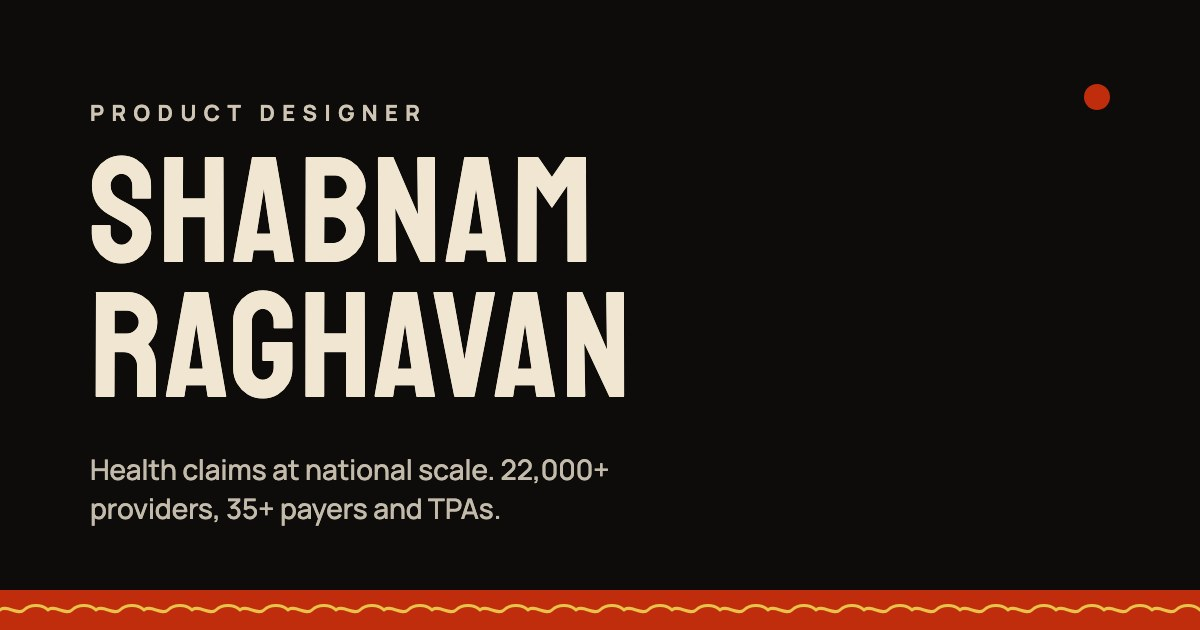
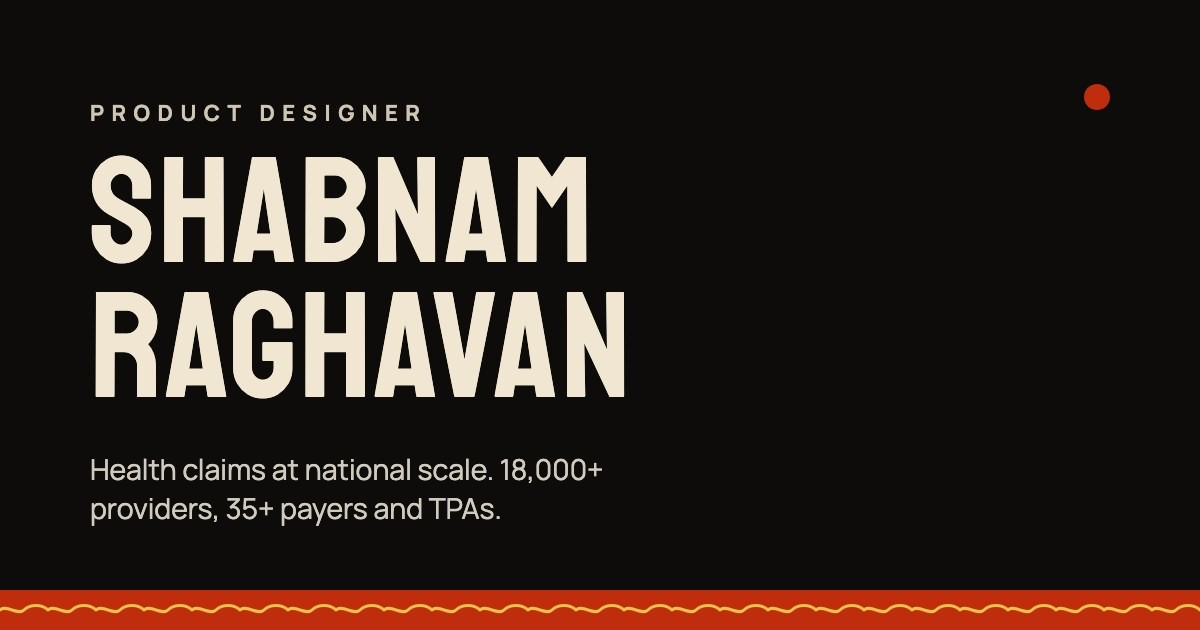
18,000+ providers everywhere: home, resume, case study cards, search and share descriptions, share image

Changed region(s): [[0.0925, 0.7238, 0.5242, 0.8444]]

diff --git a/index.html b/index.html
@@ -12,7 +12,7 @@
 <meta property="og:type" content="website" />
 <meta property="og:site_name" content="Shabnam Raghavan" />
 <meta property="og:title" content="Shabnam Raghavan · Product Designer" />
-<meta property="og:description" content="Product designer working on health insurance claims at national scale. Sole designer for IHX Nucleus, serving 22,000+ providers and 35+ payers and TPAs." />
+<meta property="og:description" content="Product designer working on health insurance claims at national scale. Sole designer for IHX Nucleus, serving 18,000+ providers and 35+ payers and TPAs." />
 <meta property="og:url" content="https://www.shabnamraghavan.com/" />
 <meta property="og:image" content="https://www.shabnamraghavan.com/images/og-share.jpg" />
 <meta property="og:image:width" content="1200" />
@@ -20,9 +20,9 @@
 <meta property="og:image:alt" content="Shabnam Raghavan, Product Designer" />
 <meta name="twitter:card" content="summary_large_image" />
 <meta name="twitter:title" content="Shabnam Raghavan · Product Designer" />
-<meta name="twitter:description" content="Product designer working on health insurance claims at national scale. Sole designer for IHX Nucleus, serving 22,000+ providers and 35+ payers and TPAs." />
+<meta name="twitter:description" content="Product designer working on health insurance claims at national scale. Sole designer for IHX Nucleus, serving 18,000+ providers and 35+ payers and TPAs." />
 <meta name="twitter:image" content="https://www.shabnamraghavan.com/images/og-share.jpg" />
-<meta name="description" content="Product designer working on health insurance claims at national scale. Sole designer for IHX Nucleus, serving 22,000+ providers and 35+ payers and TPAs." />
+<meta name="description" content="Product designer working on health insurance claims at national scale. Sole designer for IHX Nucleus, serving 18,000+ providers and 35+ payers and TPAs." />
 <link rel="icon" type="image/png" sizes="32x32" href="favicon-32.png" />
 <link rel="icon" type="image/svg+xml" href="favicon.svg" />
 <link rel="apple-touch-icon" sizes="180x180" href="favicon-180.png" />
@@ -2394,7 +2394,7 @@
             <span class="file-no">03</span>
             <h3><span class="sel">A Four-Bucket Layout Was Hiding a Two-Team Operation</span></h3>
             <p class="file-org">IHX · Nucleus Ops dashboard</p>
-            <p class="file-metrics">22,000+ providers · 33% increase in revenue per claim · 51% reduction in task time</p>
+            <p class="file-metrics">18,000+ providers · 33% increase in revenue per claim · 51% reduction in task time</p>
             <span class="file-go">Read case study</span>
           </div>
         </div>
@@ -2947,7 +2947,7 @@
           <span class="hist-plus" aria-hidden="true"></span>
         </button>
         <div class="hist-body"><div class="hist-inner">
-          <p class="hist-lede">Sole product designer for IHX Nucleus, serving 22,000+ healthcare providers and 35+ payers and TPAs.</p>
+          <p class="hist-lede">Sole product designer for IHX Nucleus, serving 18,000+ healthcare providers and 35+ payers and TPAs.</p>
           <ul class="hist-list">
             <li>Led the UX for <mark>7 AI agentic product lines</mark> across the claims journey, from submission through to settlement.</li>
             <li>Designed premium operations features on a per-claim subscription. Average time to initiate settlement fell from <mark>3.23 to 1.56 minutes</mark>, and per-claim monetization rose <mark>33%</mark> on one enterprise hospital contract.</li>

diff --git a/resume.html b/resume.html
@@ -8,12 +8,12 @@
 <script>(function(){if(!/(^|\.)shabnamraghavan\.com$/.test(location.hostname))return;if(navigator.doNotTrack==="1"||window.doNotTrack==="1")return;try{if(localStorage.getItem("shab-ignore")==="1")return;}catch(e){}
 (function(c,l,a,r,i,t,y){c[a]=c[a]||function(){(c[a].q=c[a].q||[]).push(arguments)};t=l.createElement(r);t.async=1;t.src="https://www.clarity.ms/tag/"+i;y=l.getElementsByTagName(r)[0];y.parentNode.insertBefore(t,y);})(window,document,"clarity","script","yt9i1njbpi");})();</script>
 <!-- link previews (LinkedIn, WhatsApp, X) -->
-<meta name="description" content="Resume of Shabnam Raghavan, product designer in health insurtech. 3+ years, sole designer for IHX Nucleus, 22,000+ providers and 35+ payers and TPAs." />
+<meta name="description" content="Resume of Shabnam Raghavan, product designer in health insurtech. 3+ years, sole designer for IHX Nucleus, 18,000+ providers and 35+ payers and TPAs." />
 <link rel="canonical" href="https://www.shabnamraghavan.com/resume.html" />
 <meta property="og:type" content="article" />
 <meta property="og:site_name" content="Shabnam Raghavan" />
 <meta property="og:title" content="Resume · Shabnam Raghavan" />
-<meta property="og:description" content="Resume of Shabnam Raghavan, product designer in health insurtech. 3+ years, sole designer for IHX Nucleus, 22,000+ providers and 35+ payers and TPAs." />
+<meta property="og:description" content="Resume of Shabnam Raghavan, product designer in health insurtech. 3+ years, sole designer for IHX Nucleus, 18,000+ providers and 35+ payers and TPAs." />
 <meta property="og:url" content="https://www.shabnamraghavan.com/resume.html" />
 <meta property="og:image" content="https://www.shabnamraghavan.com/images/og-share.jpg" />
 <meta property="og:image:width" content="1200" />
@@ -21,7 +21,7 @@
 <meta property="og:image:alt" content="Shabnam Raghavan, Product Designer" />
 <meta name="twitter:card" content="summary_large_image" />
 <meta name="twitter:title" content="Resume · Shabnam Raghavan" />
-<meta name="twitter:description" content="Resume of Shabnam Raghavan, product designer in health insurtech. 3+ years, sole designer for IHX Nucleus, 22,000+ providers and 35+ payers and TPAs." />
+<meta name="twitter:description" content="Resume of Shabnam Raghavan, product designer in health insurtech. 3+ years, sole designer for IHX Nucleus, 18,000+ providers and 35+ payers and TPAs." />
 <meta name="twitter:image" content="https://www.shabnamraghavan.com/images/og-share.jpg" />
 <link rel="icon" type="image/png" sizes="32x32" href="favicon-32.png" />
 <link rel="icon" type="image/svg+xml" href="favicon.svg" />

diff --git a/ihx-ai-features-case-study.html b/ihx-ai-features-case-study.html
@@ -1646,7 +1646,7 @@ footer.sc-foot{background:transparent;color:#F0E6D2;padding:52px 0 34px;}
         <div class="cs-thumb"><video src="ihx-tpa-ops-cover.mp4" poster="images/ihx-tpa-ops-cover-poster.webp" muted loop playsinline preload="none" aria-label="IHX Ops Dashboard claims listing screen"></video></div>
         <div class="cs-card-body">
           <div class="cs-card-title">A Four-Bucket Layout Was Hiding a Two-Team Operation</div>
-          <span class="cs-metrics">22K+ providers &middot; 33% increase in revenue/claim &middot; 51% reduction in task time</span>
+          <span class="cs-metrics">18K+ providers &middot; 33% increase in revenue/claim &middot; 51% reduction in task time</span>
         </div>
       </a>
       <a href="ihx-nucleus-mobile-case-study.html" class="cs-card">

diff --git a/ihx-user-management-case-study.html b/ihx-user-management-case-study.html
@@ -1629,7 +1629,7 @@ footer.sc-foot{background:transparent;color:#F0E6D2;padding:52px 0 34px;}
         <div class="cs-thumb"><video src="ihx-tpa-ops-cover.mp4" poster="images/ihx-tpa-ops-cover-poster.webp" muted loop playsinline preload="none" aria-label="IHX Ops Dashboard claims listing screen"></video></div>
         <div class="cs-card-body">
           <div class="cs-card-title">A Four-Bucket Layout Was Hiding a Two-Team Operation</div>
-          <span class="cs-metrics">22K+ providers &middot; 33% increase in revenue/claim &middot; 51% reduction in task time</span>
+          <span class="cs-metrics">18K+ providers &middot; 33% increase in revenue/claim &middot; 51% reduction in task time</span>
         </div>
       </a>
     </div>
